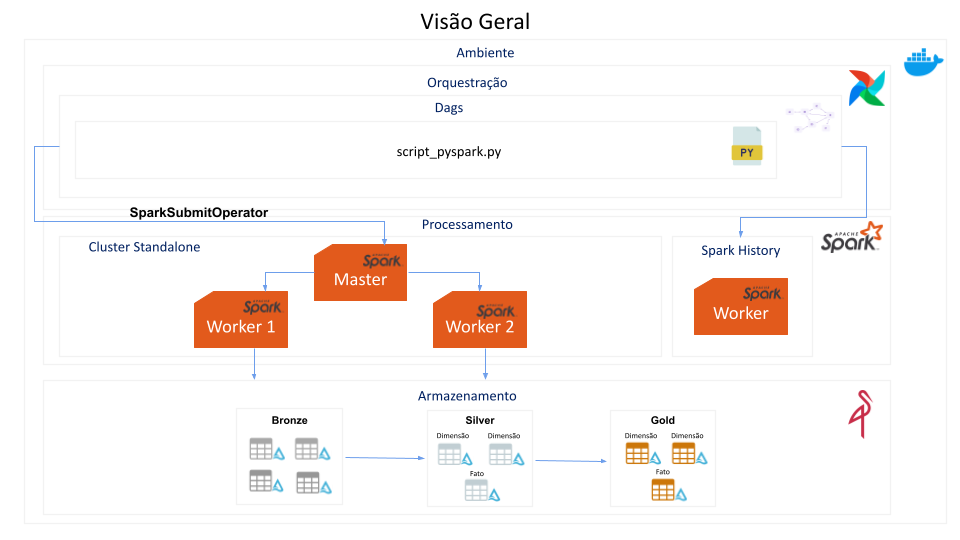
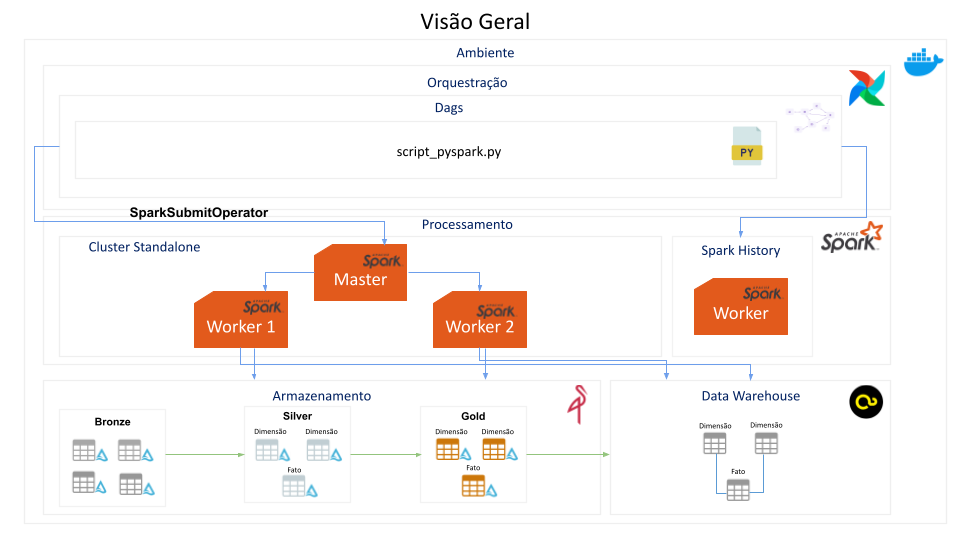
Inserção pg_duckdb e ajustes no dag

diff --git a/dags/dag_etl.py b/dags/dag_etl.py
@@ -1,0 +1,112 @@
+from airflow import DAG
+from airflow.providers.apache.spark.operators.spark_submit import SparkSubmitOperator
+from datetime import datetime
+from airflow.hooks.base import BaseHook
+
+# Conexão com MinIO
+minio_conn = BaseHook.get_connection("minio_conn")
+minio_extras = minio_conn.extra_dejson
+
+
+# Conexão com PostgreSQL
+postgres_conn = BaseHook.get_connection("postgres_conn")
+postgres_host = postgres_conn.host
+postgres_port = postgres_conn.port
+postgres_user = postgres_conn.login
+postgres_pwd = postgres_conn.password
+postgres_schema = postgres_conn.schema
+
+postgres_db = f"jdbc:postgresql://{postgres_host}:{postgres_port}/{postgres_schema}"
+
+
+# Caminhos dos JARs
+postgres_driver_jar = "/opt/spark/jars/postgresql-42.6.0.jar"
+hadoop_driver_jar = "/opt/spark/jars/hadoop-aws-3.3.4.jar"
+aws_driver_jar = "/opt/spark/jars/aws-java-sdk-bundle-1.12.262.jar"
+delta_driver_jar = "/opt/spark/jars/delta-spark_2.12-3.2.0.jar"
+
+# Configurações padrão da DAG
+default_args = {
+    'owner': 'airflow',
+    'start_date': datetime(2025, 6, 1),
+    'retries': 1,
+}
+
+
+# Configuração padrão do Spark + MinIO
+common_spark_conf = {
+    'spark.eventLog.enabled': 'true',
+    'spark.eventLog.dir': 'file:/opt/spark/events',
+    'spark.hadoop.fs.s3a.access.key': minio_extras.get('s3a.access.key'),
+    'spark.hadoop.fs.s3a.secret.key': minio_extras.get('s3a.secret.key'),
+    'spark.hadoop.fs.s3a.endpoint': minio_extras.get('s3a.endpoint'),
+    'spark.hadoop.fs.s3a.impl': 'org.apache.hadoop.fs.s3a.S3AFileSystem',
+    'spark.hadoop.fs.s3a.path.style.access': 'true',
+    'spark.hadoop.com.amazonaws.services.s3.enableV4': 'true',
+    'spark.hadoop.fs.s3a.aws.credentials.provider': 'org.apache.hadoop.fs.s3a.SimpleAWSCredentialsProvider',
+    'spark.hadoop.fs.AbstractFileSystem.s3a.impl': 'org.apache.hadoop.fs.s3a.S3A',
+    'spark.sql.extensions': 'io.delta.sql.DeltaSparkSessionExtension',
+    'spark.sql.catalog.spark_catalog': 'org.apache.spark.sql.delta.catalog.DeltaCatalog'
+}
+
+# Lista de JARs
+common_jars = ",".join([
+    postgres_driver_jar,
+    hadoop_driver_jar,
+    aws_driver_jar,
+    delta_driver_jar
+])
+
+
+with DAG(
+    dag_id='dag_etl',
+    default_args=default_args,
+    schedule=None,  # execução manual
+    catchup=False,
+    tags=['etl', 'spark'],
+) as dag:
+
+    # Task 1 - bronze
+    spark_bronze = SparkSubmitOperator(
+        task_id='submit_spark_bronze',
+        application='/opt/airflow/scripts/01_bronze.py',
+        conn_id='spark_standalone',
+        application_args=[],
+        conf=common_spark_conf,
+        jars=common_jars,
+        verbose=True,
+        deploy_mode='client',
+        total_executor_cores=4,
+        executor_cores=2
+    )
+
+    # Task 2 - silver
+    spark_silver = SparkSubmitOperator(
+        task_id='submit_spark_silver',
+        application='/opt/airflow/scripts/02_silver.py',
+        conn_id='spark_standalone',
+        application_args=[],
+        conf=common_spark_conf,
+        jars=common_jars,
+        verbose=True,
+        deploy_mode='client',
+        total_executor_cores=4,
+        executor_cores=2
+    )
+
+    # Task 3 - consume
+    spark_gold = SparkSubmitOperator(
+        task_id='submit_spark_consume',
+        application='/opt/airflow/scripts/03_consume.py',
+        conn_id='spark_standalone',
+        conf=common_spark_conf,
+        application_args=[postgres_db, postgres_user, postgres_pwd],
+        jars=common_jars,
+        verbose=True,
+        deploy_mode='client',
+        total_executor_cores=4,
+        executor_cores=2
+    )
+
+    # Encadeamento das tarefas
+    spark_bronze >> spark_silver >> spark_gold

diff --git a/scripts/03_consume.py b/scripts/03_consume.py
@@ -1,0 +1,28 @@
+import sys
+from pyspark.sql import SparkSession
+
+postgres_db = sys.argv[1]  
+postgres_user = sys.argv[2]
+postgres_pwd = sys.argv[3]
+
+def main():
+    spark = SparkSession.builder \
+        .appName("WriteToPostgres") \
+        .getOrCreate()
+    
+    # Leitura dos dados do MinIO (camada Silver)
+    df = spark.read.format("delta").load("s3a://silver/pi_estimate_delta_transformed/")
+
+    # Escrita no PostgreSQL
+    df.write \
+        .format("jdbc") \
+        .option("url", postgres_db) \
+        .option("dbtable", "public.pi_estimativas") \
+        .option("user", postgres_user) \
+        .option("password", postgres_pwd) \
+        .option("driver", "org.postgresql.Driver") \
+        .mode("overwrite") \
+        .save()
+
+if __name__ == "__main__":
+    main()

diff --git a/scripts/01_bronze.py b/scripts/01_bronze.py
@@ -4,8 +4,6 @@ from pyspark.sql.types import StructType, StructField, DoubleType
 def main():
     spark = SparkSession.builder \
         .appName("SparkPiToMinIO") \
-        .config("spark.sql.extensions", "io.delta.sql.DeltaSparkSessionExtension") \
-        .config("spark.sql.catalog.spark_catalog", "org.apache.spark.sql.delta.catalog.DeltaCatalog") \
         .getOrCreate()
 
 
@@ -23,10 +21,7 @@ def main():
     df = spark.createDataFrame([(pi,)], schema)
 
     # Gravar no MinIO (formato Parquet, você pode mudar para CSV se quiser)
-    #df.write.mode("overwrite").parquet("s3a://bronze/pi_estimate/")
     df.write.format("delta").mode("overwrite").save("s3a://bronze/pi_estimate_delta/")
-
-    spark.stop()
 
 if __name__ == "__main__":
     main()

diff --git a/scripts/02_silver.py b/scripts/02_silver.py
@@ -1,0 +1,19 @@
+from pyspark.sql import SparkSession
+from pyspark.sql.functions import current_date
+
+def main():
+    spark = SparkSession.builder \
+        .appName("TransformPiEstimate") \
+        .getOrCreate()
+
+    # Leitura dos dados do MinIO - camada bronze
+    df = spark.read.format("delta").load("s3a://bronze/pi_estimate_delta/")
+
+    # Inserir coluna com a data atual
+    df_transformed = df.withColumn("data_processamento", current_date())
+
+    # Gravar no MinIO - camada silver
+    df_transformed.write.format("delta").mode("overwrite").save("s3a://silver/pi_estimate_delta_transformed/")
+
+if __name__ == "__main__":
+    main()

diff --git a/README.md b/README.md
@@ -40,5 +40,15 @@ docker compose up -d
     "s3a.endpoint": "http://minio:9000" <br>
   }
 
+### Postgres (PG_DUCKDB):
+- **Connection ID:** postgres_conn
+- **Connection Type:** postgres
+- **Host:** {pg_host}
+- **login:** {pg_user}
+- **password:** {pg_pwd}
+- **port:** {pg_port}
+- **database:** {pg_database}
+
+
 # Dag de exemplo (spark_pi_cluster_job)
  ![alt text](./assets/dag.png)
